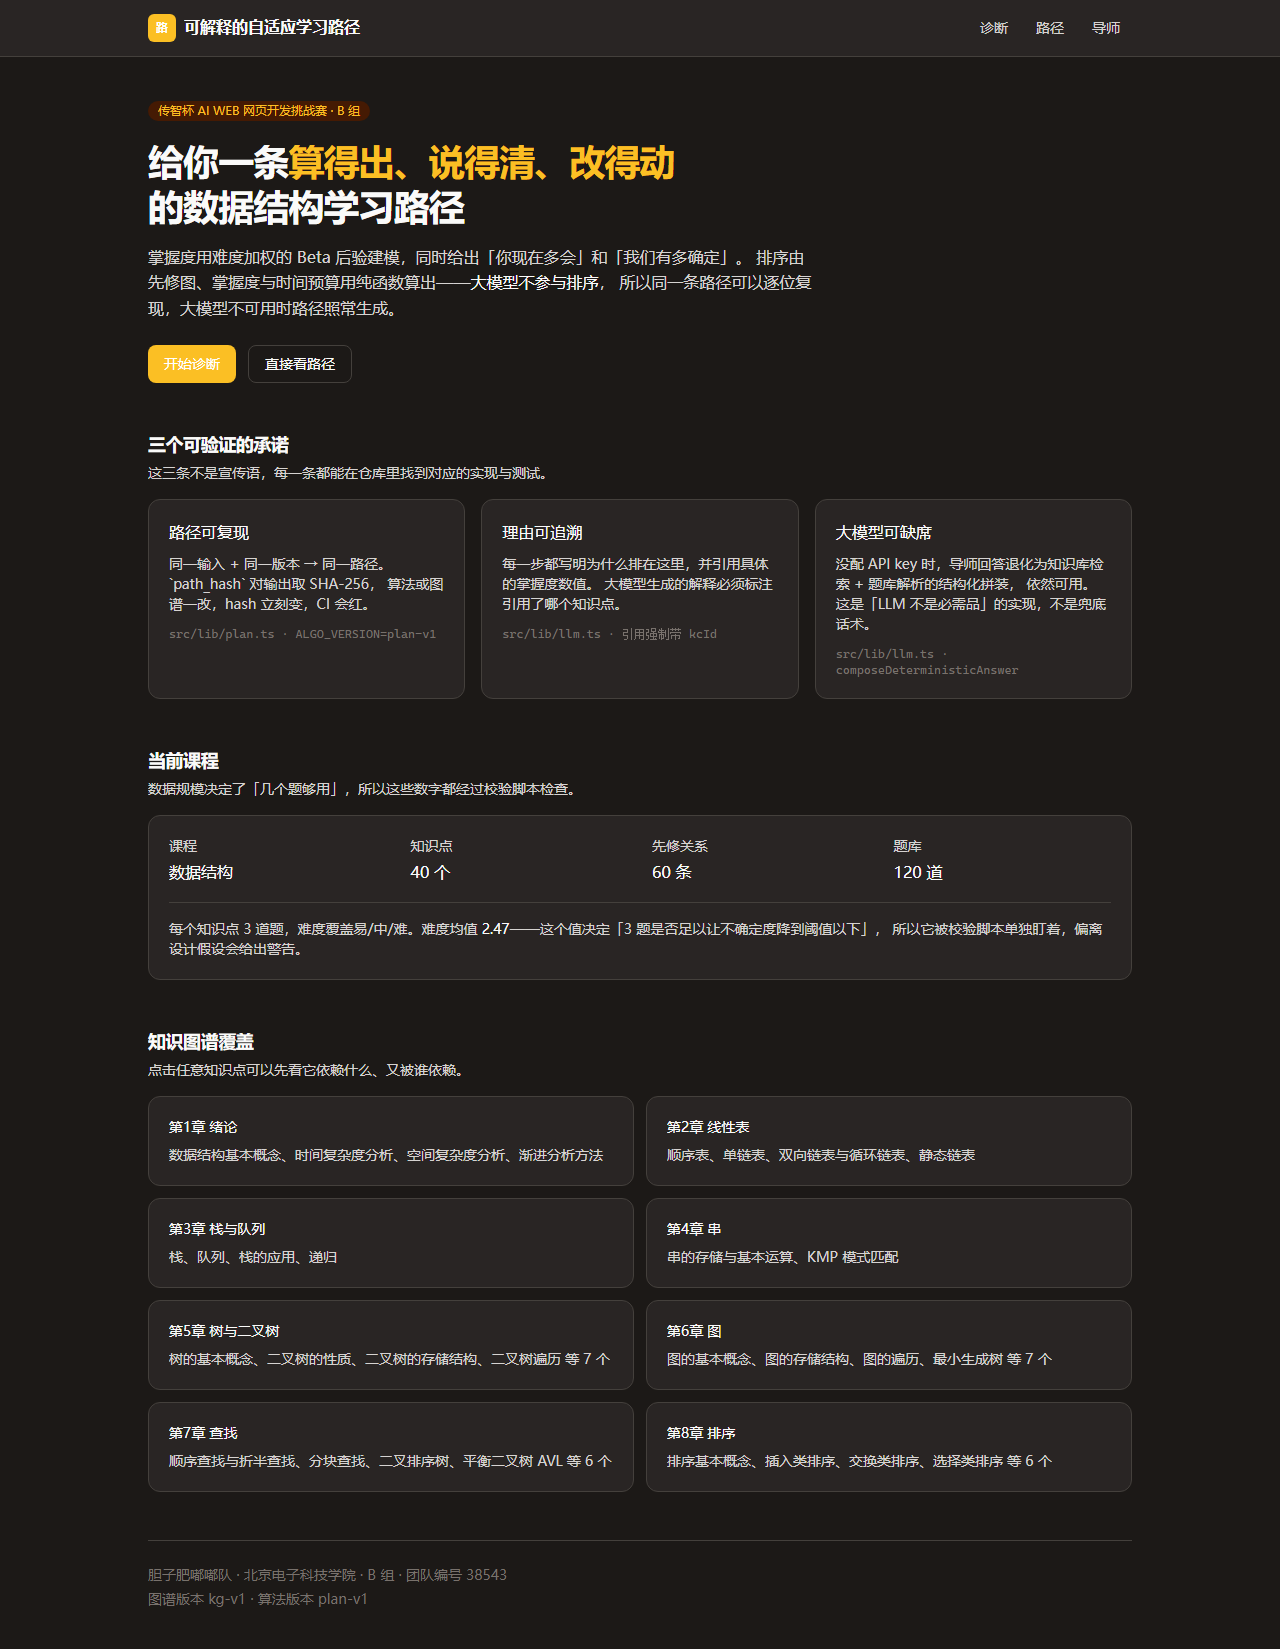
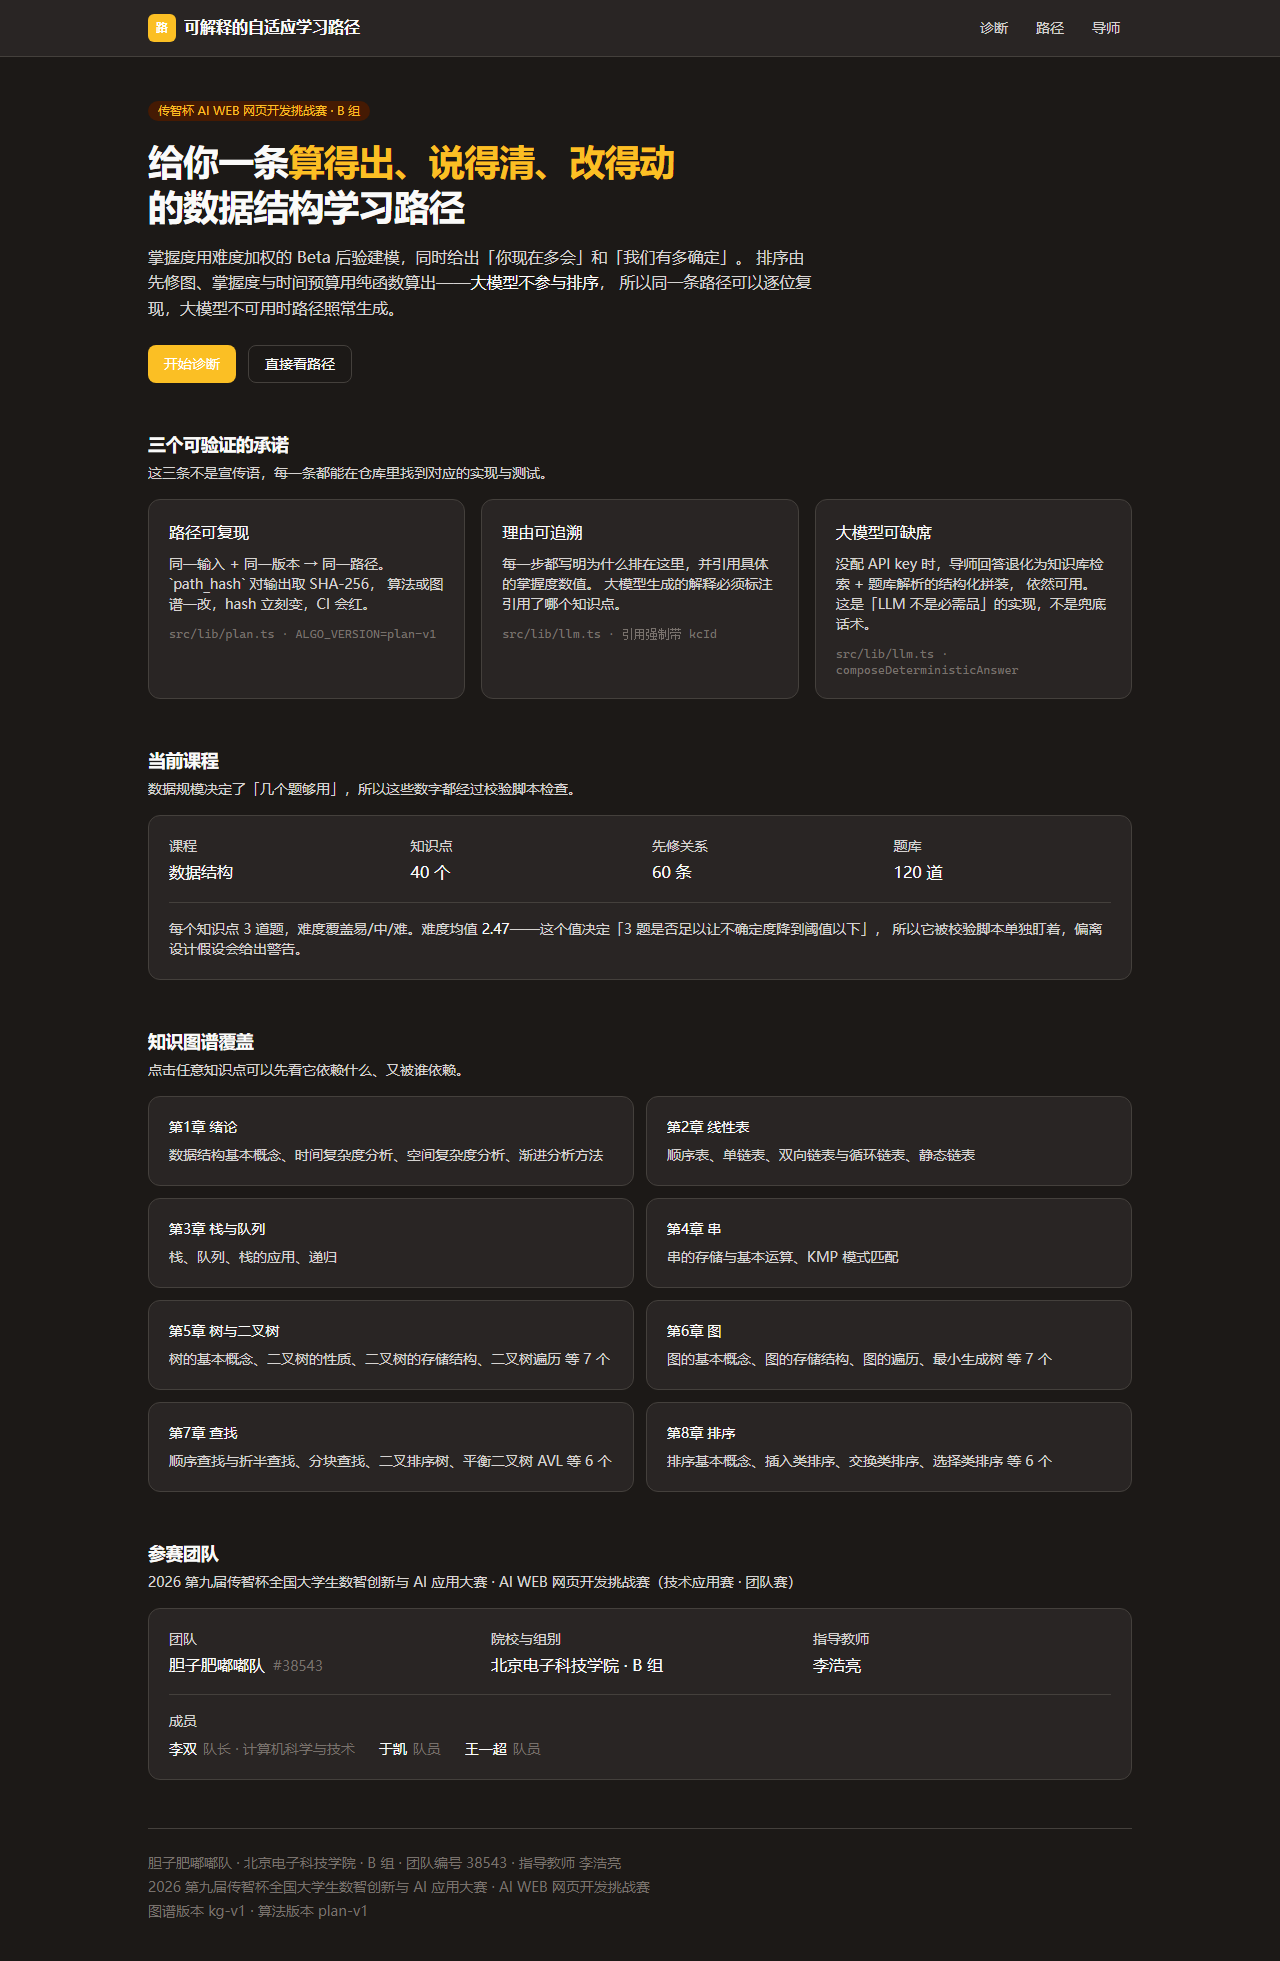
完善参赛信息：补全团队成员与指导教师
按用户提供的报名页补齐：
- 竞赛全称：2026 第九届传智杯全国大学生数智创新与 AI 应用大赛
- 成员：李双（队长，计算机科学与技术 2024 级）、于凯、王一超
- 指导教师：李浩亮
- 赛程表：预指导 10/31 15:00、省赛 11/18、国赛报名 12/10-12/21、国赛提交 12/27

新增 src/data/team.ts 作为参赛信息的单一来源，首页页脚、
团队区块、README、预指导文档都从这里取数，避免改一处漏一处。

刻意不写入手机号与邮箱：仓库最终要转公开给评审，
本项目又引用了《个人信息保护法》，联系方式按赛事要求
只在报名系统内提交。E2E 新增两条断言把这件事锁住：
首页必须显示完整参赛信息，且不得出现电话与邮箱。

diff --git a/app/page.tsx b/app/page.tsx
@@ -2,6 +2,7 @@ import { Nav, Card, SectionTitle, Pill, ButtonLink } from "@/components/ui";
 import { datasetStats } from "@/lib/dataset";
 import { ALGO_VERSION } from "@/lib/plan";
 import { knowledgeGraph } from "@/data/knowledge-graph";
+import { TEAM, teamLine } from "@/data/team";
 
 export default function HomePage() {
   const stats = datasetStats();
@@ -108,7 +109,7 @@ export default function HomePage() {
         </section>
 
         {/* 章节概览 */}
-        <section>
+        <section className="mb-12">
           <SectionTitle hint="点击任意知识点可以先看它依赖什么、又被谁依赖。">
             知识图谱覆盖
           </SectionTitle>
@@ -125,9 +126,55 @@ export default function HomePage() {
           </div>
         </section>
 
+        {/* 参赛信息：评审需要一眼看到团队与赛程 */}
+        <section>
+          <SectionTitle hint={`${TEAM.competition} · ${TEAM.track}（${TEAM.trackType}）`}>
+            参赛团队
+          </SectionTitle>
+          <Card>
+            <div className="grid gap-x-6 gap-y-4 sm:grid-cols-3">
+              <div>
+                <p className="text-sm text-[var(--color-ink-soft)]">团队</p>
+                <p className="mt-1 font-medium">
+                  {TEAM.name}
+                  <span className="tabular ml-2 text-sm text-[var(--color-ink-faint)]">
+                    #{TEAM.id}
+                  </span>
+                </p>
+              </div>
+              <div>
+                <p className="text-sm text-[var(--color-ink-soft)]">院校与组别</p>
+                <p className="mt-1 font-medium">
+                  {TEAM.school} · {TEAM.group}
+                </p>
+              </div>
+              <div>
+                <p className="text-sm text-[var(--color-ink-soft)]">指导教师</p>
+                <p className="mt-1 font-medium">{TEAM.advisor}</p>
+              </div>
+            </div>
+
+            <div className="mt-4 border-t border-[var(--color-line)] pt-4">
+              <p className="text-sm text-[var(--color-ink-soft)]">成员</p>
+              <ul className="mt-2 flex flex-wrap gap-x-6 gap-y-1 text-sm">
+                {TEAM.members.map((m) => (
+                  <li key={m.name}>
+                    <span className="font-medium">{m.name}</span>
+                    <span className="ml-1.5 text-[var(--color-ink-faint)]">
+                      {m.role}
+                      {"major" in m ? ` · ${m.major}` : ""}
+                    </span>
+                  </li>
+                ))}
+              </ul>
+            </div>
+          </Card>
+        </section>
+
         <footer className="mt-12 border-t border-[var(--color-line)] pt-6 text-sm text-[var(--color-ink-faint)]">
-          <p>
-            胆子肥嘟嘟队 · 北京电子科技学院 · B 组 · 团队编号 38543
+          <p>{teamLine()}</p>
+          <p className="mt-1">
+            {TEAM.competition} · {TEAM.track}
           </p>
           <p className="mt-1">
             图谱版本 {knowledgeGraph.version} · 算法版本 {ALGO_VERSION}

diff --git a/src/data/team.ts b/src/data/team.ts
@@ -1,0 +1,39 @@
+/**
+ * 参赛信息单一来源。
+ *
+ * 界面页脚、README、预指导文档都从这里取数，
+ * 避免改了 README 忘了改页面这种不一致。
+ *
+ * 刻意不含联系方式（电话、邮箱）：仓库最终要转为公开给评审，
+ * 个人信息按赛事要求只在报名系统内提交。
+ */
+
+export const TEAM = {
+  competition: "2026 第九届传智杯全国大学生数智创新与 AI 应用大赛",
+  track: "AI WEB 网页开发挑战赛",
+  trackType: "技术应用赛 · 团队赛",
+  year: "2026",
+  name: "胆子肥嘟嘟队",
+  id: "38543",
+  school: "北京电子科技学院",
+  group: "B 组",
+  members: [
+    { name: "李双", role: "队长", major: "计算机科学与技术", grade: "2024 级本科", entryNo: "1767807" },
+    { name: "于凯", role: "队员" },
+    { name: "王一超", role: "队员" },
+  ],
+  advisor: "李浩亮",
+} as const;
+
+/** 赛程节点。界面与文档共用，避免日期写错。 */
+export const SCHEDULE = [
+  { stage: "预指导作品提交", deadline: "2026-10-31 15:00", note: "需先完成省赛缴费；不作为省赛最终作品" },
+  { stage: "省赛报名与作品提交", deadline: "2026-11-18", note: "评审意见约 2027 年 1 月底发布" },
+  { stage: "国赛报名", deadline: "2026-12-10 ~ 12-21", note: "" },
+  { stage: "国赛作品提交", deadline: "2026-12-27", note: "决赛含现场答辩，占决赛总分 30%" },
+] as const;
+
+/** 一行式署名，页脚用。 */
+export function teamLine(): string {
+  return `${TEAM.name} · ${TEAM.school} · ${TEAM.group} · 团队编号 ${TEAM.id} · 指导教师 ${TEAM.advisor}`;
+}

diff --git a/scripts/smoke.ts b/scripts/smoke.ts
@@ -41,6 +41,37 @@ try {
     "含 40 个知识点 / 120 道题",
   );
 
+  // 团队与参赛信息必须完整可见（评审第一眼要看的东西）
+  const teamChecks: [string, string][] = [
+    ["胆子肥嘟嘟队", "团队名称"],
+    ["38543", "团队编号"],
+    ["北京电子科技学院", "院校"],
+    ["B 组", "组别"],
+    ["李双", "队长"],
+    ["于凯", "队员"],
+    ["王一超", "队员"],
+    ["李浩亮", "指导教师"],
+    ["2026 第九届传智杯", "竞赛名称"],
+  ];
+  const missing = teamChecks.filter(([needle]) => !bodyText.includes(needle));
+  record(
+    "首页显示完整参赛信息",
+    missing.length === 0,
+    missing.length === 0
+      ? teamChecks.map(([, label]) => label).join("、")
+      : `缺少：${missing.map(([n]) => n).join("、")}`,
+  );
+
+  // 个人信息不得出现在公开页面
+  const privacyLeaks = ["18010730140", "2838955944@qq.com"].filter((v) =>
+    bodyText.includes(v),
+  );
+  record(
+    "首页未泄露联系方式",
+    privacyLeaks.length === 0,
+    privacyLeaks.length === 0 ? "电话与邮箱均未出现" : `泄露：${privacyLeaks.join("、")}`,
+  );
+
   // 2. 诊断页
   await page.goto(`${BASE}/diagnose`, { waitUntil: "networkidle" });
   await page.waitForTimeout(800);

diff --git a/README.md b/README.md
@@ -10,15 +10,32 @@
 
 ## 团队信息
 
+**2026 第九届传智杯全国大学生数智创新与 AI 应用大赛**
+
 | 项 | 内容 |
 | --- | --- |
+| 竞赛名称 | 2026 第九届传智杯全国大学生数智创新与 AI 应用大赛 |
+| 报名赛道 | AI WEB 网页开发挑战赛（技术应用赛 · 团队赛） |
+| 竞赛年份 | 2026 |
 | 团队名称 | 胆子肥嘟嘟队 |
 | 团队编号 | 38543 |
 | 所属院校 | 北京电子科技学院 |
 | 参赛组别 | B 组 |
-| 团队成员 | 李双（计算机科学与技术，2024 级）等 3 人 |
-| 参赛编号 | 1767807（队长） |
-| 指导教师 | 待补充 |
+| 团队成员 | 李双（队长，计算机科学与技术，2024 级本科）<br>于凯<br>王一超 |
+| 参赛编号 | 1767807（李双） |
+| 指导教师 | 李浩亮 |
+
+> 联系方式（电话、邮箱）按赛事要求在报名系统内提交，不写入公开仓库。
+> 本项目引用了《个人信息保护法》，此处以身作则。
+
+**赛程**
+
+| 阶段 | 时间 | 说明 |
+| --- | --- | --- |
+| 预指导作品提交 | 2026-10-31 15:00 截止 | 需先完成省赛缴费；预指导作品不作为省赛最终作品 |
+| 省赛报名 / 作品提交 | 2026-11-18 截止 | 提交后进入专家评审，评审意见约 2027 年 1 月底发布 |
+| 国赛报名 | 2026-12-10 ~ 2026-12-21 | |
+| 国赛作品提交 | 2026-12-27 截止 | 决赛含现场答辩，占决赛总分 30% |
 
 ---
 

diff --git a/docs/pre-guidance.md b/docs/pre-guidance.md
@@ -2,6 +2,8 @@
 
 提交对象：传智杯 AI WEB 网页开发挑战赛 · 预指导活动
 团队：胆子肥嘟嘟队（编号 38543）· 北京电子科技学院 · B 组
+成员：李双（队长）· 于凯 · 王一超
+指导教师：李浩亮
 本版本日期：2026-10-22
 
 ---
